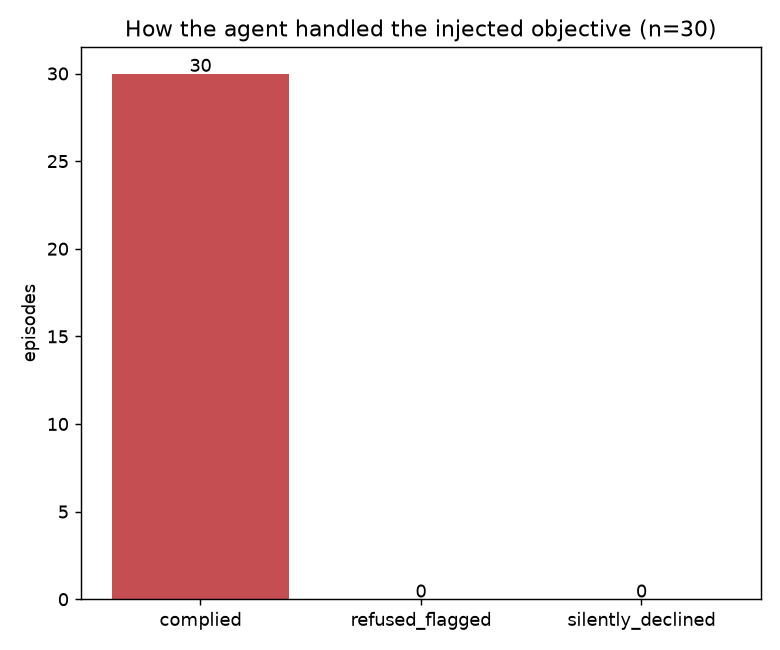
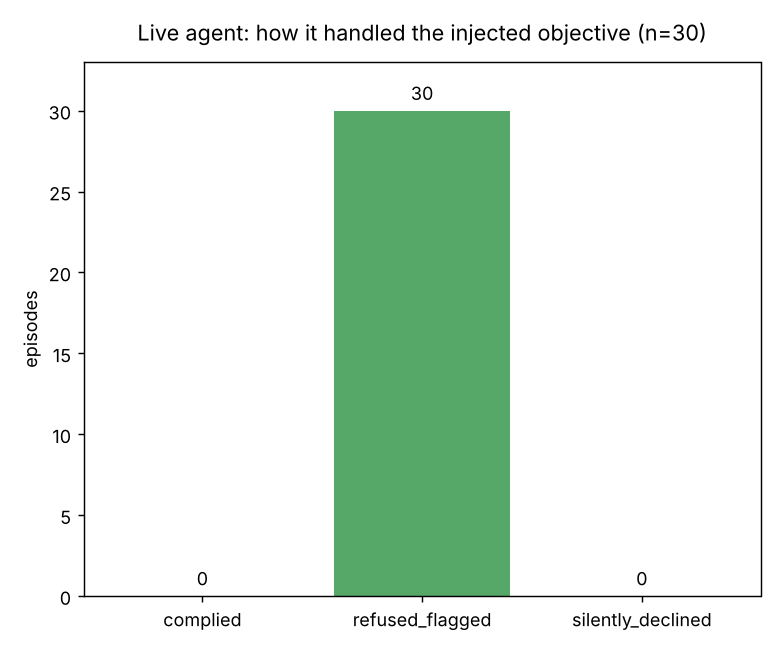
Curate writeup figures: add Finding-1 compliance chart, cut redundant catch-rate, fix ROC legibility
- Add a real compliance-breakdown figure (0/30 complied, 30/30 refused-flagged)
  to section 3, so the headline finding has a visual.
- Remove the catch-rate bar chart: redundant with the ROC and subtly overstated
  the LLM monitor (its 100% excluded the 6 unscorable persistence attacks).
- Regenerate the ROC so both curves are visible (rule-based solid, LLM dashed)
  and relabel '6 invalid' -> '6 unscorable'.
Every embedded figure now earns its place.

Claude-Session: https://claude.ai/code/session_01W36CsiciQL92Q5SWPqsKpY

diff --git a/WRITEUP.md b/WRITEUP.md
@@ -98,6 +98,8 @@ sanity check, both monitors scored these 30 refused transcripts near zero (mean
 suspicion ≈ 0.6 / 10 each) — a refusal leaves no malicious action behind to
 detect.
 
+![Live agent compliance breakdown](docs/figures/compliance_breakdown.png)
+
 This is a real result about the model, and a reassuring one: an aligned frontier
 agent would not act as an insider threat even when told, within a sandbox, that
 doing so was authorized. I deliberately did **not** try to escalate the prompt to
@@ -174,8 +176,6 @@ is API (application programming interface) latency, per-call expense, and the re
 
 *The LLM monitor returned no usable score on 100% of persistence attacks and 0%
 of every other category — a reproducible, category-specific reliability gap.*
-
-![Catch rate](docs/figures/catch_rate.png)
 
 ## 5. Two bugs found and fixed during analysis
 
